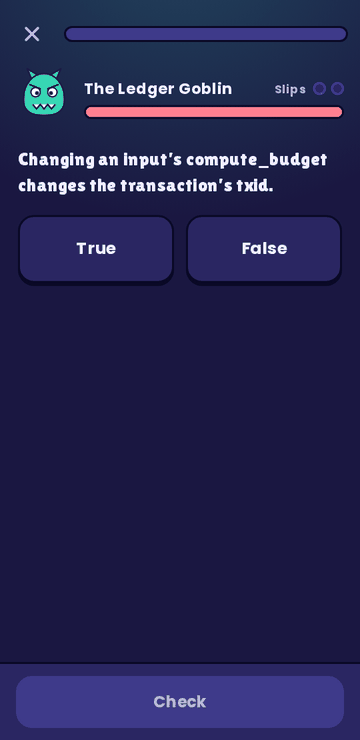
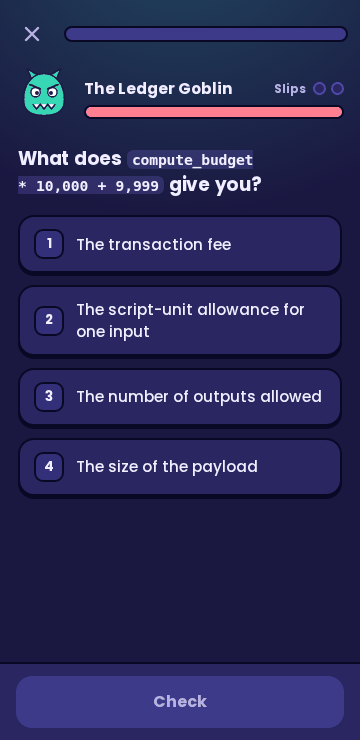
SillyKuest 3.1.1: donate to a raw Kaspa address, plain font for questions

diff --git a/js/ui/screens.js b/js/ui/screens.js
@@ -19,26 +19,26 @@
   function head(t, sub) { return h('div', { class: 'sh' }, h('h1', t), sub ? h('p', { class: 'sub' }, sub) : null); }
 
   /* ========================================================== SUPPORT */
-  /* Donate sheet: shows the Kaspa name from SK.DONATE (js/core.js) with a one-tap copy. */
+  /* Donate sheet: shows the Kaspa address from SK.DONATE (js/core.js) with a one-tap copy. */
   SK.supportSheet = function () {
     if (!SK.DONATE) return;
     var label = h('span', { class: 'sup-copy' }), timer = null;
     function paint(done) { label.innerHTML = SK.icon(done ? 'check' : 'copy', 18) + '<span>' + (done ? 'Copied' : 'Copy') + '</span>'; }
     paint(false);
-    var chip = h('button', { type: 'button', class: 'sup-name', 'aria-label': 'Copy ' + SK.DONATE }, h('code', SK.DONATE), label);
+    var chip = h('button', { type: 'button', class: 'sup-name', 'aria-label': 'Copy the Kaspa address' }, h('code', SK.DONATE), label);
     chip.addEventListener('click', function () {
       SK.copy(SK.DONATE).then(function () {
-        chip.classList.add('done'); paint(true); SK.sfx('ok'); SK.announce('Copied ' + SK.DONATE);
+        chip.classList.add('done'); paint(true); SK.sfx('ok'); SK.announce('Copied the Kaspa address');
         clearTimeout(timer); timer = setTimeout(function () { chip.classList.remove('done'); paint(false); }, 1800);
-      }, function () { SK.toast('Could not copy. Select the name and copy it by hand.'); });
+      }, function () { SK.toast('Could not copy. Select the address and copy it by hand.'); });
     });
     SK.modal({
       title: 'Support SillyKuest',
       body: h('div', { class: 'sup' },
         h('div', { class: 'sup-sil', html: SK.sil('yay', 84) }),
-        h('p', 'SillyKuest is free and open source, with no ads and no tracking. If it helped you, you can send a few KAS to this Kaspa name.'),
+        h('p', 'SillyKuest is free and open source, with no ads and no tracking. If it helped you, you can send a few KAS to this Kaspa address.'),
         chip,
-        h('p', { class: 'cap' }, 'Paste it as the recipient in a wallet that supports Kaspa names, and check that the name matches before you confirm.')),
+        h('p', { class: 'cap' }, 'Paste it as the recipient in your wallet, and check that the first and last few characters match before you confirm.')),
       actions: [{ label: 'Close', kind: 'alt' }]
     });
   };

diff --git a/css/refine.css b/css/refine.css
@@ -93,10 +93,9 @@ h1, h2, .wm, .sh-t, .prof-b h1, .ds-v span { font-family: var(--disp); font-weig
 .sup-sil { display: grid; place-items: center; margin: 0 0 4px; }
 .sup p { margin: 0 0 12px; }
 .sup .cap { margin: 0; }
-.sup-name { display: flex; align-items: center; justify-content: space-between; gap: 12px; width: 100%; padding: 14px 14px 14px 18px; margin: 2px 0 12px; border: 2.5px dashed var(--ink-soft); border-radius: 18px; background: var(--paper-2); color: var(--ink); text-align: left; }
-.sup-name code { min-width: 0; padding: 0; background: none; font-family: var(--disp); font-size: clamp(1.1rem, 5.4vw, 1.3rem); font-weight: 400; letter-spacing: .01em; overflow-wrap: anywhere; }
-.sup-copy { display: inline-flex; align-items: center; gap: 6px; flex: none; padding: 7px 12px 7px 10px; border: 2px solid var(--line); border-radius: 99px; background: var(--teal); color: var(--on); font-weight: 700; font-size: .82rem; box-shadow: 0 2px 0 var(--line); }
-@media (max-width: 350px) { .sup-name { flex-direction: column; align-items: stretch; text-align: center; gap: 10px; padding: 12px; } .sup-copy { justify-content: center; } }
+.sup-name { display: flex; flex-direction: column; align-items: stretch; gap: 12px; width: 100%; padding: 14px 14px 14px 16px; margin: 2px 0 12px; border: 2.5px dashed var(--ink-soft); border-radius: 18px; background: var(--paper-2); color: var(--ink); text-align: left; }
+.sup-name code { min-width: 0; padding: 0; background: none; font-family: var(--m); font-size: clamp(.8rem, 3.6vw, .92rem); font-weight: 700; line-height: 1.5; word-break: break-all; }
+.sup-copy { display: inline-flex; align-items: center; justify-content: center; gap: 6px; flex: none; padding: 7px 12px 7px 10px; border: 2px solid var(--line); border-radius: 99px; background: var(--teal); color: var(--on); font-weight: 700; font-size: .82rem; box-shadow: 0 2px 0 var(--line); }
 .sup-name:active .sup-copy { transform: translateY(1px); box-shadow: 0 1px 0 var(--line); }
 .sup-name.done { border-color: var(--good-t); }
 .sup-name.done .sup-copy { background: var(--good-bg); color: var(--good-t); border-color: var(--good-t); }

diff --git a/tests/repo.js b/tests/repo.js
@@ -59,7 +59,19 @@ ok(!all.some(f => /^(SILLY-HANDOFF|IMPLEMENTATION_STATE\d*|CHANGES)\.md$/.test(f
 ok(/needs:\s*check/.test(read('.github/workflows/pages.yml')), 'pages.yml deploys without waiting for the checks job');
 const donate = (core.match(/SK\.DONATE = '([^']*)'/) || [])[1];
 ok(!!donate, 'SK.DONATE is empty');
-ok(donate && read('README.md').indexOf(donate) >= 0, 'README.md does not show the donation name ' + donate);
+ok(donate && read('README.md').indexOf(donate) >= 0, 'README.md does not show the donation address ' + donate);
+/* a Kaspa address carries a checksum: catch a mistyped or truncated donation address */
+(function () {
+  const CS = 'qpzry9x8gf2tvdw0s3jn54khce6mua7l', G = [0x98f2bc8e61n, 0x79b76d99e2n, 0xf33e5fb3c4n, 0xae2eabe2a8n, 0x1e4f43e470n];
+  const m = /^(kaspa|kaspatest):([a-z0-9]+)$/.exec(donate || '');
+  ok(!!m, 'SK.DONATE is not a kaspa: or kaspatest: address');
+  if (!m) return;
+  const vals = [...m[1]].map(c => c.charCodeAt(0) & 31).concat([0], [...m[2]].map(c => CS.indexOf(c)));
+  ok(vals.every(v => v >= 0), 'SK.DONATE has a character a Kaspa address cannot contain');
+  let c = 1n;
+  vals.forEach(d => { const c0 = c >> 35n; c = ((c & 0x07ffffffffn) << 5n) ^ BigInt(d); G.forEach((g, i) => { if ((c0 >> BigInt(i)) & 1n) c ^= g; }); });
+  ok((c ^ 1n) === 0n, 'SK.DONATE fails the Kaspa address checksum (mistyped or cut short?)');
+})();
 const fonts = read('css/fonts.css'), tp = read('THIRD_PARTY.md');
 [...fonts.matchAll(/font-family:"([^"]+)"/g)].map(m => m[1]).filter((v, i, a) => a.indexOf(v) === i).forEach(n => ok(tp.indexOf(n) >= 0, 'THIRD_PARTY.md does not credit the embedded font ' + n));
 

diff --git a/tests/v3.js b/tests/v3.js
@@ -33,9 +33,9 @@ const ok = (c, m) => { if (c) passes++; else { fails++; console.log('FAIL: ' + m
   await page.evaluate(() => { window.__c = null; Object.defineProperty(navigator, 'clipboard', { value: { writeText: t => { window.__c = t; return Promise.resolve(); } }, configurable: true }); });
   await page.evaluate(() => { const b = document.querySelector('.foot-donate'); b.focus(); b.click(); });
   await page.waitForSelector('.modal .sup-name');
-  ok((await page.textContent('.sup-name code')) === donate && !!donate, 'sheet shows the donation name');
+  ok((await page.textContent('.sup-name code')) === donate && !!donate, 'sheet shows the donation address');
   await page.click('.sup-name'); await page.waitForTimeout(120);
-  ok((await page.evaluate(() => window.__c)) === donate, 'copy writes the name to the clipboard');
+  ok((await page.evaluate(() => window.__c)) === donate, 'copy writes the address to the clipboard');
   ok((await page.textContent('.sup-copy')).trim() === 'Copied', 'copy button confirms');
   ok(/Copied/.test(await page.textContent('.sr[role=status]')), 'copy is announced to screen readers');
   await page.evaluate(() => { Object.defineProperty(navigator, 'clipboard', { value: { writeText: () => Promise.reject(new Error('no')) }, configurable: true }); document.execCommand = () => false; });

diff --git a/js/core.js b/js/core.js
@@ -4,9 +4,9 @@
 (function () {
   'use strict';
   var SK = (window.SK = window.SK || {});
-  SK.version = '3.1.0';
-  /* The Kaspa name people can send KAS to. Shown in the Support sheet (You tab, Learn footer). */
-  SK.DONATE = 'weirdtualguy.k';
+  SK.version = '3.1.1';
+  /* The Kaspa address people can send KAS to. Shown in the Support sheet (You tab, Learn footer). */
+  SK.DONATE = 'kaspa:qp26rvw8t7qxl2kyu70us2tptz3u4p09f6h6l4k4gxlc40uau2m0xvjjw9whl';
 
   /* ------------------------------------------------------------ DOM */
   function add(el, c) {

diff --git a/sw.js b/sw.js
@@ -1,7 +1,7 @@
 /* SillyKuest service worker: cache everything on first load, then work fully offline.
    Bump VERSION when you change any file so returning users get the update (the app then offers a Reload).
    tests/repo.js checks that this list matches the files index.html loads. */
-var VERSION = 'sillykuest-3.1.0';
+var VERSION = 'sillykuest-3.1.1';
 var FILES = [
   './', 'index.html', 'manifest.webmanifest',
   'css/fonts.css', 'css/base.css', 'css/shell.css', 'css/lesson.css', 'css/widgets.css', 'css/refine.css',

diff --git a/css/lesson.css b/css/lesson.css
@@ -109,7 +109,7 @@ button.cl:hover { background: rgba(255, 255, 255, .06); }
 .cl-say code { white-space: normal; }
 
 /* ---------- quizzes ---------- */
-.q-text { font-size: 1.15rem; line-height: 1.4; margin-bottom: 18px; font-weight: 700; letter-spacing: -.015em; }
+.q-text { font-family: var(--f); font-size: 1.15rem; line-height: 1.4; margin-bottom: 18px; font-weight: 700; letter-spacing: -.01em; }
 .q-text code { font-size: .8em; }
 .opts { display: grid; gap: 12px; }
 .opts-tf { grid-template-columns: 1fr 1fr; }

diff --git a/CHANGELOG.md b/CHANGELOG.md
@@ -2,6 +2,12 @@
 
 Versions follow `SK.version` in `js/core.js`. The service worker cache name and `package.json` must match it (`node tests/repo.js` checks).
 
+## 3.1.1 - 2026-10-20
+
+### Changed
+- **Donations go to a raw Kaspa address** instead of a Kaspa name, in the Support sheet and the README. The sheet shows the full address in small monospaced text with a Copy button under it, and tells people to check the first and last few characters in their wallet. `npm test` now checks the address checksum, so a mistyped or cut-off address fails the build.
+- **Question text uses the plain body font** (Poppins) instead of the display font, in lessons, boss fights, Vibe Check and Vault Heist.
+
 ## 3.1.0 - 2026-10-20
 
 Gentler onboarding. World 1 now teaches one new idea per lesson, and a real term appears only after the player has done something with it.

diff --git a/SECURITY.md b/SECURITY.md
@@ -7,7 +7,7 @@ SillyKuest is a static app. It has no server, no account and no network calls: e
 - A way to run script in the app (XSS), or to get around the Content Security Policy in `index.html`.
 - A progress code that damages saved data, or that is accepted when it should be rejected.
 - A service worker problem that could serve the wrong files.
-- The donation name (`SK.DONATE`) being changed or shown differently from `README.md`.
+- The donation address (`SK.DONATE`) being changed or shown differently from `README.md`.
 
 Teaching mistakes (a wrong claim about Kaspa or Silverscript) are not security problems. Please open a normal issue for those, with a link to the source that shows the right answer.
 

diff --git a/README.md b/README.md
@@ -79,13 +79,13 @@ New lessons, fixes and corrections are welcome. Read [CONTRIBUTING.md](CONTRIBUT
 
 ## Support
 
-SillyKuest is free and has no ads. If it helped you, you can send some KAS to the Kaspa name:
+SillyKuest is free and has no ads. If it helped you, you can send some KAS to this Kaspa address:
 
 ```
-weirdtualguy.k
+kaspa:qp26rvw8t7qxl2kyu70us2tptz3u4p09f6h6l4k4gxlc40uau2m0xvjjw9whl
 ```
 
-The same name is behind the **Donate** button in the app (You tab). Check that the name matches in your wallet before you confirm.
+The same address is behind the **Donate** button in the app (You tab). Check that the first and last few characters match in your wallet before you confirm.
 
 ## Accuracy
 
